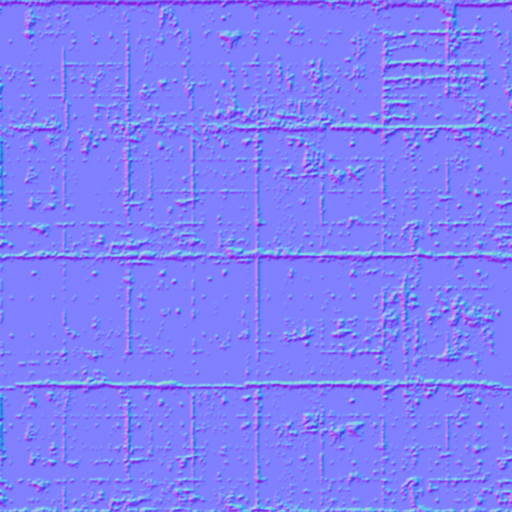
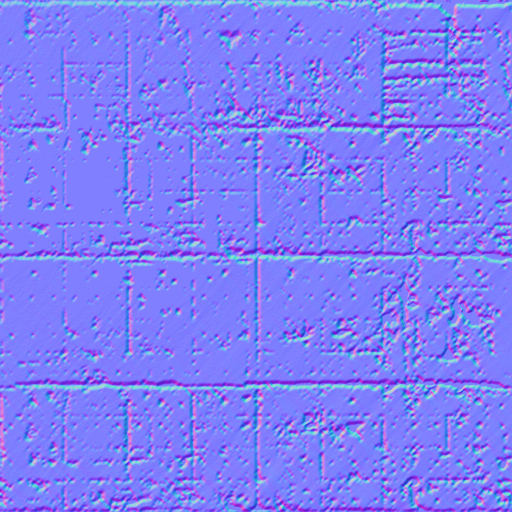
Normal mapping a las veredas

diff --git a/animador/Animador.js b/animador/Animador.js
@@ -44,6 +44,8 @@ function Animador(puntosControl){
     "edificio":["shader-fs-edificio-obj.glsl","shader-vs-edificio-obj.glsl"],
     "reflexion":["shader-fs-reflection-obj.glsl","shader-vs-reflection-obj.glsl"],
     "cielo":["shader-fs-cielo.glsl","shader-vs-cielo.glsl"],
+    "normalmappeada-texturada":["shader-fs-textured-mapped-obj.glsl","shader-vs-textured-mapped-obj.glsl"],
+
     "normal":["debug/shader-fs-normal.glsl","debug/shader-vs-normal.glsl"],
     "binormal":["debug/shader-fs-binormal.glsl","debug/shader-vs-binormal.glsl"],
     "tangente":["debug/shader-fs-tangent.glsl","debug/shader-vs-tangent.glsl"]
@@ -55,6 +57,7 @@ function Animador(puntosControl){
     "referenciaDebug.jpg",
     "llanta.jpg",
     "vereda.jpg",
+    "vereda_normal.jpg",
     "refmap.jpg"
   ].concat(nombresImagenesPisos).concat(nombresImagenesPlantabajas);
 
@@ -136,10 +139,13 @@ function Animador(puntosControl){
     //luces
     mundo.luces.push(luz1);
     luz1.cambiarHacia([1,0,0]);
+    luz1.color=[1,0,0];
     mundo.luces.push(luz2);
 
     luz1.mover(30,30,30);
+    luz1.distanciaIluminada=10
     luz2.mover(0,0,0.5);
+    luz2.color=[0,1,0];
 
   }
 

diff --git a/objetos/ObjetoVereda.js b/objetos/ObjetoVereda.js
@@ -5,8 +5,9 @@ function ObjetoVereda(ladoManzana,radioBorde,altura,gl){
   let yo=new Objeto();
   let texturaVereda = atlasTexturas.t("vereda.jpg");////vereda.jpg
   let programaColor = atlasShaderPs.p("coloreado");
-  let programaTextura = atlasShaderPs.p("texturado");
+  let programaTextura = atlasShaderPs.p("normalmappeada-texturada");
   let fTapa=new FormaVereda(ladoManzana,radioBorde,radioBorde,gl).copiaConTextura(texturaVereda);
+  FormaNormalMappeada(fTapa,atlasTexturas.t("vereda_normal.jpg"));
   let fZoca=new FormaZocalo(ladoManzana,radioBorde,gl,[0.5,0.5,0.5]);
   let oTapa=new Objeto(new Modelo(fTapa,programaTextura,gl));
   let oZoca=new Objeto(new Modelo(fZoca,programaColor,gl));

diff --git a/objetos/ObjetoSuperficieManzana.js b/objetos/ObjetoSuperficieManzana.js
@@ -3,7 +3,8 @@ function ObjetoSuperficieManzana(lado,plaza,densidad,gl){
   let sp=atlasShaderPs.p("coloreado");
   if(!plaza){
     sup = sup.copiaConTextura(atlasTexturas.t("vereda.jpg"));
-    sp=atlasShaderPs.p("texturado");
+    sp=atlasShaderPs.p("normalmappeada-texturada");
+    FormaNormalMappeada(sup,atlasTexturas.t("vereda_normal.jpg"));
   }
 
   let m=new Modelo(sup,sp,gl);

diff --git a/objetos/ObjetoSubcolectorEdificios.js b/objetos/ObjetoSubcolectorEdificios.js
@@ -82,12 +82,6 @@ function ObjetoSubcolectorEdificios(gl,texturasPisos,texturasPlantabaja){
         h.uniforms.push({nombre:"uAltoSobre"+i,valor:rel});
       }
     });
-
-    yo.hijos.forEach(function(h){
-      console.log(h.uniforms);
-      console.log(texturasPisos);
-      console.log(texturasPlantabaja);
-    });
   }
 
 

diff --git a/shaders/ShaderProgram.js b/shaders/ShaderProgram.js
@@ -3,6 +3,7 @@ const atlasShaderPs=(function(){
   let nombresLibreriaShaders=[
     "pesosIluminacion-fs","pesosIluminacion-vs",
     "normal-comun-fs","normal-comun-vs",
+    "normal-mappeada-fs","normal-mappeada-vs",
   ];
   let yo={};
   let gl=null;
